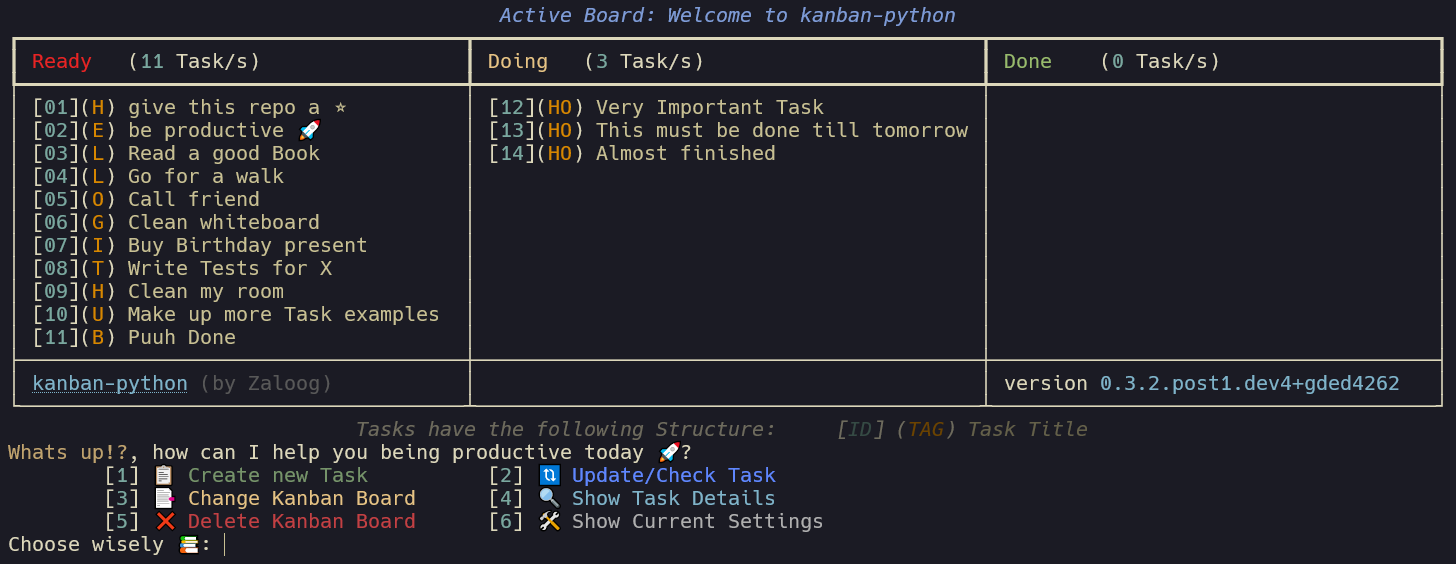
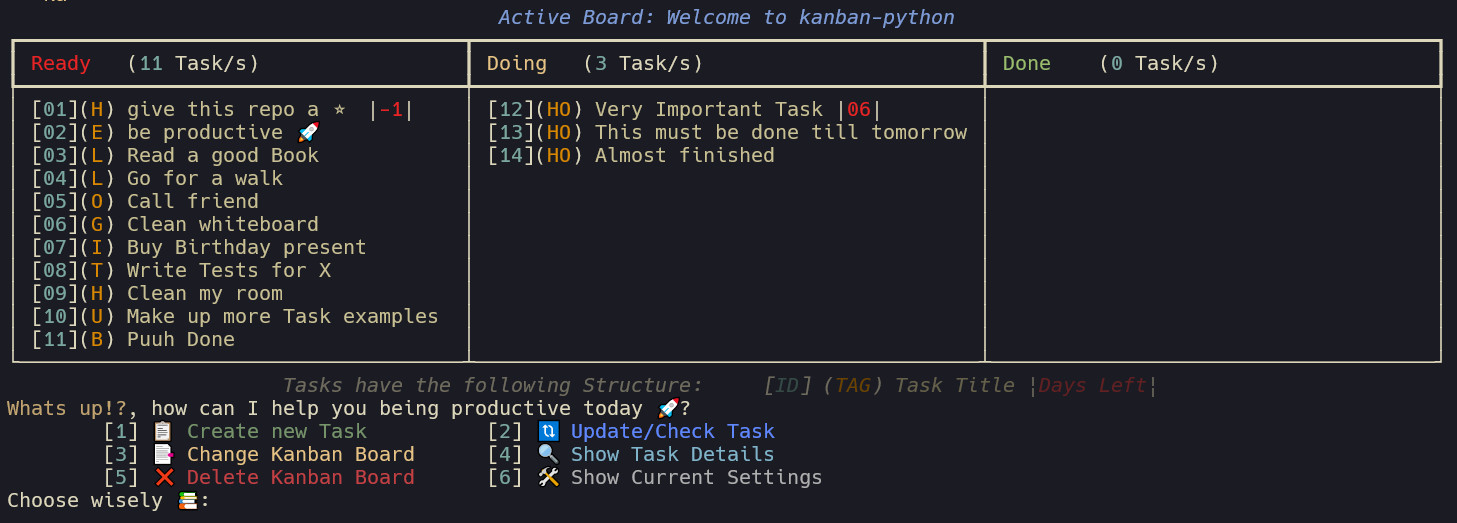
new due date feature + docs update gh-12

Changed region(s): [[0.0, 0.0, 1.0, 0.979]]

diff --git a/src/kanban_python/interface.py b/src/kanban_python/interface.py
@@ -145,7 +145,7 @@ def input_create_new_task() -> dict:
         "Status": "Ready" if str(status) == "1" else "Doing",
         "Tag": tag.upper(),
         "Creation_Date": current_time_to_str(),
-        "Due_Date": due_date,
+        "Due_Date": due_date_date_to_datetime(due_date),
         "Begin_Time": current_time_to_str() if str(status) == "2" else "",
         "Complete_Time": "",
         "Duration": 0,
@@ -313,9 +313,9 @@ def input_ask_for_change_board(boards_dict: dict) -> str:
                 ]
             )
             + (
-                f"\t next due in {days_left} days"
+                f"\t next due in {days_left} day/s"
                 if days_left > 0
-                else f"[red]\t task {-days_left} days overdue[/]"
+                else f"[red]\t task {-days_left} day/s overdue[/]"
                 if days_left != -9999
                 else "\t no dues present here"
             )

diff --git a/tests/test_utils.py b/tests/test_utils.py
@@ -252,7 +252,7 @@ def test_due_date_datetime_to_date(datetime, expected_result):
 @pytest.mark.parametrize(
     "datetime, expected_result",
     [
-        ("2023-12-24", "2023-12-24 00:00:00"),
+        ("2023-12-24", "2023-12-24 23:59:59"),
         ("", ""),
     ],
 )
@@ -264,7 +264,7 @@ def test_due_date_date_to_datetime(datetime, expected_result):
 
 def test_calculate_days_left_till_due():
     fake_now = datetime.datetime(2023, 12, 10, 0, 0, 0)
-    test_time = "2023-12-24 00:00:00"
+    test_time = "2023-12-24 23:59:59"
     delta_days = 14
 
     with freeze_time(fake_now):

diff --git a/src/kanban_python/utils.py b/src/kanban_python/utils.py
@@ -258,7 +258,9 @@ def due_date_datetime_to_date(date_datetime: str) -> str:
 
 def due_date_date_to_datetime(date_str: str) -> str:
     if date_str:
-        date_datetime = str(datetime.strptime(date_str, "%Y-%m-%d"))
+        date_datetime = str(
+            datetime.strptime(f"{date_str} 23:59:59", "%Y-%m-%d %H:%M:%S")
+        )
         return date_datetime
     return date_str
 

diff --git a/README.md b/README.md
@@ -12,7 +12,7 @@
 [![Project generated with PyScaffold](https://img.shields.io/badge/-PyScaffold-005CA0?logo=pyscaffold)](https://pyscaffold.org/)
 [![PyPI-Server](https://img.shields.io/pypi/v/kanban-python.svg)](https://pypi.org/project/kanban-python/)
 [![Downloads](https://static.pepy.tech/badge/kanban-python)](https://pepy.tech/project/kanban-python)
-[![Coverage Status](https://coveralls.io/repos/github/Zaloog/kanban-python/badge.svg?branch=refs/tags/v0.3.7)](https://coveralls.io/github/Zaloog/kanban-python?branch=refs/tags/v0.3.7)
+[![Coverage Status](https://coveralls.io/repos/github/Zaloog/kanban-python/badge.svg?branch=refs/tags/v0.3.8)](https://coveralls.io/github/Zaloog/kanban-python?branch=refs/tags/v0.3.8)
 # kanban-python
 
 > A Terminal Kanban Application written in Python to boost your productivity :rocket:
@@ -35,7 +35,9 @@ It was a great help for developing my first package and I can highly recommend i
 <details><summary>Colorful and Interactive</summary>
 
 - kanban-python uses [rich] under the hood to process user input
-and display nice looking tables to the terminal.
+and display nice looking kanban-boards to the terminal.
+- Each task has a unique `ID` per board and also has an optional `Tag` and `Due Date` associated with it,
+which are displayed alongside its `Title`
 
 </details>
 
@@ -77,7 +79,7 @@ This can be edited manually or within the kanban-python application. It tracks t
 
 - Each created board comes with its own name and `pykanban.json` file,
 which stores all tasks for that board. The files are stored in board specific folders under `$USER_DATA_DIR/kanban-python/kanban_boards/<BOARDNAME>`.
-When changing Boards you also get an overview over tasks in visible columns for each board.
+When changing Boards you also get an overview over tasks in visible columns for each board and the most urgent or overdue task on that board.
 ![change_view](https://raw.githubusercontent.com/Zaloog/kanban-python/main/images/image_kanban_change.PNG)
 
 </details>

diff --git a/CHANGELOG.md b/CHANGELOG.md
@@ -3,8 +3,8 @@
 ## Version 0.3.8
 - Add `Due_Date` to Task Structure
 - App now asks for `Due_Date` on task creation and task update
-- Show `days left` on board and color board background for task if it is overdue
-- Show `days left` of most urgent task for each board when changing boards
+- Show `days left` on board for task with `Due_Date`
+- Show `days left` of most overdue or urgent task for each board when changing boards
 - Add `freezegun` as test requirement
 
 ## Version 0.3.7
